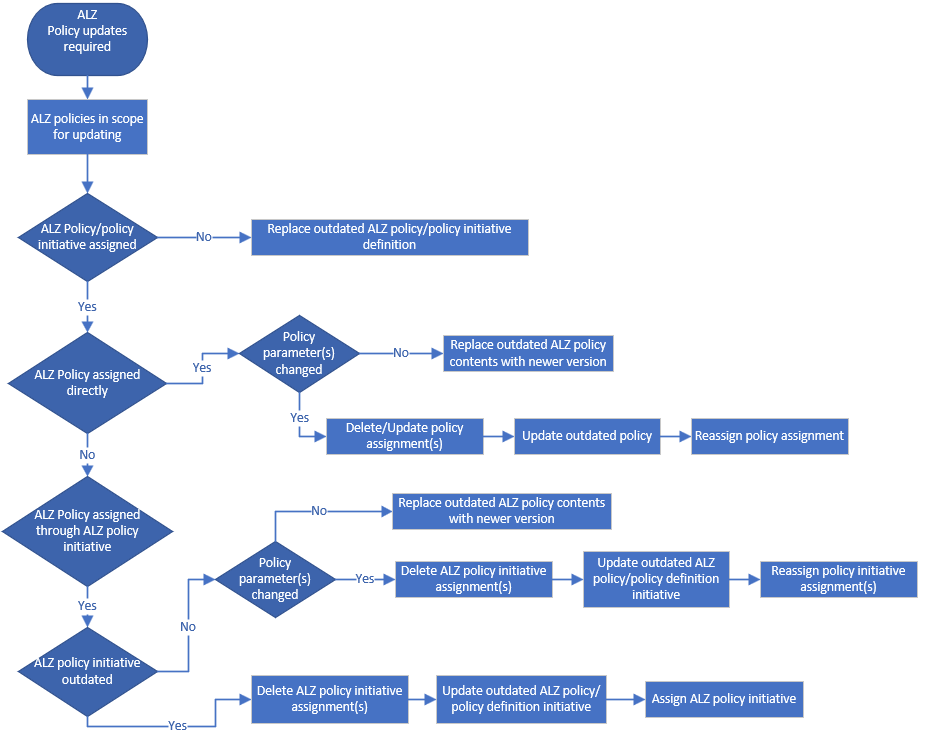
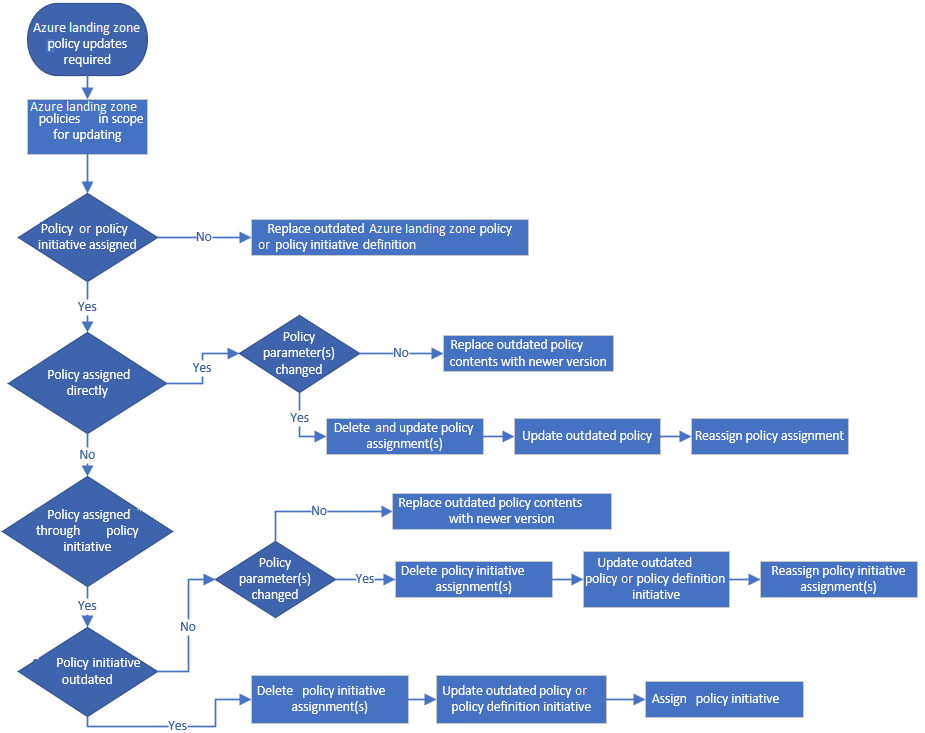
edit pass

diff --git a/docs/govern/guides/standard/update-alz-custom-policies.md b/docs/govern/guides/standard/update-alz-custom-policies.md
@@ -1,6 +1,6 @@
 ---
-title: 'Standard enterprise governance: Overview of updating Azure Landing Zone custom policies to new versions of ALZ custom policies'
-description: Use the guidance provided to update already deployed ALZ custom policies to updated ALZ custom policies.
+title: Update Azure landing zone custom policies
+description: Use this guidance to update already-deployed Azure landing zone custom policies and policy initiatives.
 author: DaFitRobsta
 ms.author: Rolightn
 ms.date: 11/15/2022
@@ -10,142 +10,132 @@ ms.subservice: govern
 ms.custom: internal
 ---
 
+# Update Azure landing zone custom policies
 
+Over time, Azure landing zone custom policies and policy initiatives update to newer versions that you can incorporate into your Azure environment. This article describes how to update Azure landing zone custom policies and policy initiatives when newer versions release.
 
-# Azure Landing Zone governance guide: Update Azure Landing Zone custom policies
+The article describes high-level manual update steps, and provides references on handling updates for [Azure landing zone Terraform](https://github.com/Azure/terraform-azurerm-caf-enterprise-scale) and [Azure landing zone Bicep](https://aka.ms/alz/bicep) modular implementations. To migrate Azure landing zone custom policies to Azure built-in policies with Bicep, see [How to migrate Azure landing zone custom policies to Azure built-in policies](https://github.com/Azure/ALZ-Bicep/wiki/PolicyDeepDive#how-to-migrate-alz-custom-policies-to-azure-built-in-policies).
 
-Over time Azure Landing Zone (ALZ) custom policies and policy initiatives will be updated to newer versions that you'll want to incorporate into your Azure environment. This article describes how to update ALZ custom policies and policy initiatives when newer versions are released. Refer to [this article](update-alz-policies.md) if you're wanting to migrate custom policies to built-in policies. The guidance provided in this document describes manual high-level steps for performing the update, and references on how to handle the process for implementations managed through the [ALZ Terraform module](https://github.com/Azure/terraform-azurerm-caf-enterprise-scale) and [ALZ Bicep module(s)](https://aka.ms/alz/bicep).
+The following infographic provides a decision tree for the Azure landing zone custom policies update process:
 
-The following infographic provides a frame of reference for the update process flow.
-
-![Diagram showing policy update process flow going from ALZ to built-in policies.](../../../_images/govern/alz-policy-to-newer-version.png)
+![Diagram that shows a decision tree for the Azure landing zone custom policy update process.](../../../_images/govern/alz-policy-to-newer-version.png)
 
 > [!CAUTION]
-> When deleting existing Policy Assignments, the time it takes to reassign policy assignments leaves your environment unprotected. After assigning the updated policy, review the Policy Compliance section for unhealthy resources and remediate.
+> When you delete existing policy assignments, your environment isn't protected during the time it takes to reassign policies. After you assign updated policies, review your policy Compliance section for any unhealthy resources, and remediate them.
 
-## Manual update steps for Azure Landing Zone environments
+## Update steps for Azure landing zone environments
 
-This section describes the generic high-level steps you would need to undertake to update ALZ custom policies and initiatives to the latest versions.
+This section describes the general high-level steps to update Azure landing zone custom policies and initiatives to newer versions.
 
 ### Detect updates
 
-There are the following authoritative options for determining that one or more custom ALZ policies has been updated as follows:
+Use the following authoritative options to determine that one or more Azure landing zone custom policies are updated:
 
-- You periodically review [What's new](https://github.com/Azure/Enterprise-Scale/wiki/Whats-new) and note that one or more policies are indicated as being outdated. An example can be seen [here](https://github.com/Azure/Enterprise-Scale/wiki/Whats-new#policy-11).
-- You're using the [Azure Governance Visualizer](https://github.com/JulianHayward/Azure-MG-Sub-Governance-Reporting) and note that one or more policies are marked as *outDated*.
+- Periodically review [What's new](https://github.com/Azure/Enterprise-Scale/wiki/Whats-new), and note that one or more policies are updated. For an example, see [here](https://github.com/Azure/Enterprise-Scale/wiki/Whats-new#policy-11).
+- Use the [Azure Governance Visualizer](https://github.com/JulianHayward/Azure-MG-Sub-Governance-Reporting) and note that one or more policies are marked **outDated**.
 
-### Updating steps
+### Apply updates
 
-- Determine if the ALZ policies in scope for update are currently assigned at any scope in your Azure estate. If using the [Azure Governance Visualizer](https://github.com/JulianHayward/Azure-MG-Sub-Governance-Reporting), currently assigned policies can be determined by checking the **TenantSummary**.
-- Determine if any ALZ policies to be updated are part of an ALZ custom policy initiative.
-- Determine if ALZ custom policy initiatives in scope for update are currently assigned at any scope in your Azure estate.
+To determine whether to apply updated custom policies to your Azure landing zone deployment:
 
-Depending on the result of the above investigations, the following actions should be taken.
+1. Determine whether your Azure estate currently assigns any outdated custom policies at any scope. If you use the [Azure Governance Visualizer](https://github.com/JulianHayward/Azure-MG-Sub-Governance-Reporting), you can see your currently assigned policies by checking the **TenantSummary**.
+1. Determine whether any of the outdated custom policies are part of an Azure landing zone custom policy initiative.
+1. Determine whether your Azure estate currently assigns any outdated custom policy initiatives at any scope.
 
-#### Policies not assigned and not part of Azure Landing Zone custom policy initiative
+Depending on the result of the above investigations, take the following actions:
 
-If the outdated policy isn't assigned in your Azure estate, and isn't part of an existing ALZ custom policy initiative, do the following:
+#### Policies not assigned
 
-- Replace the outdated ALZ policy definition from the ALZ intermediate root Management Group (for example, `Contoso`) with the updated ALZ policy definition
+- If the outdated policy isn't assigned in your Azure estate, and isn't part of an existing custom policy initiative, replace the outdated policy definition from the Azure landing zone Intermediate Root Management Group, such as `Contoso`, with the updated policy definition.
 
-If the ALZ custom policy initiative is outdated by an updated ALZ custom policy initiative and isn't assigned in your Azure estate, do the following:
+- If a custom policy initiative is updated, but isn't assigned in your Azure estate, replace the outdated custom policy initiative with the updated custom policy initiative at the Azure landing zone Intermediate Root Management Group, for example `Contoso`.
 
-- Replace the outdated ALZ policy initiative with the updated ALZ custom policy initiative at the ALZ intermediate root Management Group (for example, `Contoso`)
+#### Policies with unchanged parameters and not part of a custom policy initiative
 
-#### Policies assigned and not part of Azure Landing Zone custom policy initiative
+If the outdated Azure landing zone policy is assigned to any scope in your Azure estate, isn't part of an existing Azure landing zone custom policy initiative, and the parameter names and number haven't changed, replace the existing custom policy definition contents with the updated custom policy definition contents at the Azure landing zone Intermediate Root Management Group, for example `Contoso`.
 
-If the outdated ALZ policy to be updated is assigned to any scope in your Azure estate, isn't part of an existing ALZ custom policy initiative, and the number of parameters and their names hasn't changed, do the following:
+For detailed guidance, see the [Azure landing zones User Guide](https://aka.ms/alz/custompolicyupdate).
 
-- Replace the existing ALZ custom policy definition contents with the updated ALZ custom policy definition contents at the ALZ intermediate root Management Group (for example, `Contoso`)
+#### Policies with changed parameters and not part of a custom policy initiative
 
-For detailed guidance, refer to [this article](https://aka.ms/alz/custompolicyupdate).
+If the outdated Azure landing zone policy is assigned to any scope in your Azure estate, isn't part of an existing Azure landing zone custom policy initiative, and the parameter names or number have changed, do the following steps:
 
-#### Policies with changed parameters assigned and not part of Azure Landing Zone custom policy initiative
+1. Capture all policy assignments, where they're assigned, and their parameter values for the outdated policy.
+1. Take one of these actions:
+   - If the policy assignment includes more than one policy definition, update the policy assignment by removing the outdated policy at all scopes where assigned.
+   - If the policy assignment contains only the outdated policy, delete the existing policy assignment at all scopes where assigned.
+1. Delete the outdated policy from the Azure landing zone Intermediate Root Management Group, for example `Contoso`.
+1. Import the updated policy to the Azure landing zone Intermediate Root Management Group.
+1. Update the existing policy assignments or create new policy assignments at the prerecorded scopes by including the updated policy.
+1. After you reassign the updated custom policy, review the policy Compliance section to validate that resources are in a healthy state.
 
-If the outdated ALZ policy to be updated is assigned to any scope in your Azure estate, isn't part of an existing ALZ custom policy initiative, and the number of parameters and/or their names have changed, do the following:
+For detailed guidance, see the [Azure landing zones User Guide](https://aka.ms/alz/custompolicyupdate).
 
-- Capture all policy assignment(s), where assigned, and parameter value(s) for the outdated ALZ policy
-- If there's more than one policy definition included in the policy assignment:
-  - Update the existing policy assignments at all scopes, where assigned, by removing the outdated ALZ policy
-    - Before removing the outdated ALZ policy, record the parameter value(s)
-- If the policy assignment only contains the outdated ALZ policy:
-  - Delete the existing policy assignments at all scopes, where assigned
-    - Before deleting the policy assignment, record the assignment scope and parameter value(s)
-- Delete the outdated ALZ policy from the ALZ intermediate root Management Group (for example, `Contoso`)
-- Create (import) the updated ALZ policy to the ALZ intermediate root Management Group (for example, `Contoso`)
-- Update the existing policy assignment(s) or create new policy assignments at the pre-recorded scopes by including the updated ALZ policy
-- Review the Policy Compliance section to validate resources are in a healthy state after reassigning the updated ALZ custom policy initiative.
+#### Policies with unchanged parameters assigned through a custom policy initiative
 
-For detailed guidance, refer to [this article](https://aka.ms/alz/custompolicyupdate).
+If the outdated policy is part of an Azure landing zone custom policy initiative, is assigned at any scope in your Azure estate, and the parameter names and number haven't changed, replace the existing custom policy definition contents with the updated custom policy definition contents. No further changes need to be made to the custom policy initiative or assignments, because the parameter number and names are unchanged.
 
-#### Policies assigned through Azure Landing Zone custom policy initiative
+For detailed guidance, see the [Azure landing zones User Guide](https://aka.ms/alz/custompolicyupdate).
 
-If the outdated policy to be updated is part of an ALZ custom policy initiative, is assigned at any scope in your Azure estate, and the number of parameters and their names hasn't changed, do the following:
+#### Policies with changed parameters assigned through a custom policy initiative
 
-- Replace the existing ALZ custom policy definition contents with the updated ALZ custom policy definition contents
-  - No further changes need to be made to the ALZ custom policy initiative or assignments since there weren't any changes to the number parameters or their names
+If the outdated policy to be updated is part of an Azure landing zone custom policy initiative, is assigned at any scope in your Azure estate, and the parameter names or number have changed, take the following actions:
 
-For detailed guidance, refer to [this article](https://aka.ms/alz/custompolicyupdate).
+1. Capture all policy assignments, where they're assigned, and their parameter values for the custom policy initiative.
+1. Delete the existing policy assignments at all scopes where assigned.
+1. Delete the outdated policy from the custom policy initiative.
+   
+   You can't delete *initiative parameter(s)* from the custom policy initiative. Consider reusing these parameters.
+   
+1. Delete the outdated policy from the Azure landing zone Intermediate Root Management Group, for example `Contoso`.
+1. Import the updated policy to the Azure landing zone Intermediate Root Management Group.
+1. Add the updated policy to the custom policy initiative.
+   - If applicable, reuse the previous initiative parameter(s).
+   - If applicable, add other initiative parameters by following existing naming patterns that the custom policy initiative defines.
+1. Reassign the updated custom policy initiative.
+1. After you reassign the updated custom policy initiative, review the policy Compliance section to validate that resources are in a healthy state.
 
-#### Policies with changed parameters assigned through Azure Landing Zone custom policy initiative
+For detailed guidance, see the [Azure landing zones User Guide](https://aka.ms/alz/custompolicyupdate).
 
-If the outdated policy to be updated is part of an ALZ custom policy initiative, is assigned at any scope in your Azure estate, and the number of parameters and/or their names have changed, do the following:
+#### Assigned updated custom policy initiative
 
-- Capture all policy assignment(s), where assigned, and parameter value(s) for the ALZ custom policy initiative
-- Delete the existing policy assignments at all scopes, where assigned
-  - Before deleting the policy assignment, record the assignment scope and parameter value(s)
-- Delete the outdated policy from the ALZ custom policy initiative
-  - **Initiative parameter(s)** can't be deleted from the ALZ custom policy initiative, consider reusing them
-- Delete the outdated ALZ policy from the ALZ intermediate root Management Group (for example, `Contoso`)
-- Create (import) the updated ALZ policy to the ALZ intermediate root Management Group (for example, `Contoso`)
-- Add the updated ALZ policy to the ALZ custom policy initiative
-  - If applicable, reuse the previous **Initiative parameter(s)**
-  - If applicable, add another **Initiative parameter(s)** following existing naming patterns defined in the ALZ custom policy initiative
-- Reassign the updated ALZ custom policy initiative
-- Review the Policy Compliance section to validate resources are in a healthy state after reassigning the updated ALZ custom policy initiative.
+If an Azure landing zone custom policy initiative is completely updated, and is assigned at any scope in your Azure estate, take the following steps:
 
-For detailed guidance, refer to [this article](https://aka.ms/alz/custompolicyupdate).
+1. Capture all policy assignments, where they're assigned, and their parameter values for the Azure landing zone custom policy initiative.
+1. Delete the existing policy assignments at all scopes where assigned.
+1. Delete the outdated custom policy initiative from the Intermediate Root Management Group, for example `Contoso`. Before deleting, record all custom policy definition names and IDs, assuming all custom policy definitions are up-to-date.
+1. Import the updated custom policy initiative definition with the appropriate policy references.
 
-#### Assigned outdated Azure Landing Zone custom policy initiative
+   You can get updated initiatives at [policySetDefinitions](https://github.com/Azure/Enterprise-Scale/tree/main/src/resources/Microsoft.Authorization/policySetDefinitions), with a generic `contoso` scope for custom policies. Remember to change the `contoso` scope to your management group hierarchy pseudo root name for each policy definition ID.
+1. Reassign the updated custom policy initiative.
+1. After you reassign the updated custom policy initiative, review the policy Compliance section to validate that resources are in a healthy state.
 
-If an outdated ALZ custom policy initiative is fully updated, and is assigned at any scope in your Azure estate, do the following:
+For detailed guidance, see the [Azure landing zones User Guide](https://aka.ms/alz/custompolicyupdate).
 
-- Capture all policy assignment(s), where assigned, and parameter value(s) for the ALZ custom policy initiative
-- Delete the existing policy assignments at all scopes, where assigned
-  - Before deleting the policy assignment, record the assignment scope and parameter value(s)
-- Delete the ALZ custom policy initiative from the ALZ intermediate root Management Group (for example `Contoso`)
-  - Before deleting, record all of the ALZ custom policy definitions names/ids
-  - Assuming all ALZ custom policy definitions are up to date
-- Create (import) the ALZ custom policy initiative definition with the appropriate policy references. Updated initiatives are available [here](https://github.com/Azure/Enterprise-Scale/tree/main/src/resources/Microsoft.Authorization/policySetDefinitions) with a generic *contoso* scope for custom policies. Remember to change *contoso* scope for each policy definition id(s) to your management group hierarchy pseudo root name.
-- Reassign the updated ALZ custom policy initiative
-- Review the Policy Compliance section to validate resources are in a healthy state after reassigning the updated ALZ custom policy initiative.
+## Update steps for Terraform module deployments
 
-For detailed guidance, refer to [this article](https://aka.ms/alz/custompolicyupdate).
+If you use the [Azure landing zones Terraform module](https://github.com/Azure/terraform-azurerm-caf-enterprise-scale) to manage your Azure landing zone deployment, this section provides resources for updating Azure landing zone custom policies and initiatives.
 
-## Update steps for Azure Landing Zone Terraform module deployments
+### Detect updates with Terraform
 
-If you're using the [ALZ Terraform module](https://github.com/Azure/terraform-azurerm-caf-enterprise-scale) to manage your ALZ deployment, this section references resources on how to update ALZ custom policies and initiatives to newer policies.
+Use the methods in [Detect updates](#detect-updates) to determine whether policies have changed. In the Terraform module, you can also see changes to policies on the [Releases](https://github.com/Azure/terraform-azurerm-caf-enterprise-scale/releases) page. For an example, see [\[v2.3.0\] Policy updates](https://github.com/Azure/terraform-azurerm-caf-enterprise-scale/releases/tag/v2.3.0).
 
-### Terraform Detect updates
+### Update with Terraform
 
-In addition to the methods described in [Detect updates](#detect-updates) on how to determine whether policies have changed, in the Terraform Module, you'll also be able to see changes to policies in the [ALZ Terraform releases page](https://github.com/Azure/terraform-azurerm-caf-enterprise-scale/releases). An example can be seen [here](https://github.com/Azure/terraform-azurerm-caf-enterprise-scale/releases/tag/v2.3.0).
+The Azure landing zone Terraform module provides update guidance for deploying breaking changes. Follow the upgrade guidance for your version at [Upgrade guides](https://aka.ms/alz/tf/upgrade).
 
-### Terraform Updating steps
+## Update steps for Bicep deployments
 
-The ALZ Terraform module provides update guidance when deploying breaking changes. Follow the upgrade guidance available for your specific version [here](https://aka.ms/alz/tf/upgrade) shown at the bottom of the page.
+If you use the [Azure landing zone Bicep module(s)](https://github.com/Azure/alz-bicep) to manage your Azure landing zone deployment, this section provides resources for updating Azure landing zone custom policies and initiatives.
 
-## Update steps for Azure Landing Zone Bicep deployments
+### Detect updates with Bicep
 
-If you're using the [ALZ Bicep](https://github.com/Azure/alz-bicep) to manage your ALZ deployment, this section references resources on how to update ALZ custom policies and initiatives to newer policies.
+Use the methods in [Detect updates](#detect-updates) to determine whether policies have changed. In Azure landing zone Bicep, you can also see changes to policies at the Azure landing zone-Bicep [Releases](https://github.com/Azure/Azure landing zone-Bicep/releases) page.
 
-### Bicep Detect updates
+### Update with Bicep
 
-In addition to the methods described in [Detect updates](#detect-updates) on how to determine whether policies have changed, in ALZ Bicep, you'll also be able to see changes to policies in the [ALZ-Bicep releases](https://github.com/Azure/ALZ-Bicep/releases).
-
-### Bicep Updating steps
-
-ALZ Bicep provides generic guidance for updating policies from ALZ custom policies to newer policies. For more similar details, refer to [How to migrate ALZ custom policies to Azure built-in policies](https://github.com/Azure/ALZ-Bicep/wiki/PolicyDeepDive#how-to-migrate-alz-custom-policies-to-azure-built-in-policies).
+Azure landing zone-Bicep provides generic guidance for updating Azure landing zone custom policies to newer policies. For more information, see [How to migrate Azure landing zone custom policies to Azure built-in policies](https://github.com/Azure/Azure landing zone-Bicep/wiki/PolicyDeepDive#how-to-migrate-alz-custom-policies-to-azure-built-in-policies).
 
 ## Next steps
 
-Regardless of whether you use Azure portal, Bicep or Terraform to manage your ALZ infrastructure, policies will change over time and will need to be managed. Use the flow described in this article as a starting point to develop processes around policy management for your specific ALZ implementation.
+Regardless of whether you use the Azure portal, Bicep, or Terraform to manage your Azure landing zone infrastructure, policies change over time and need to be managed. Use the flow in this article as a starting point to develop processes around policy management for your Azure landing zone implementation.
